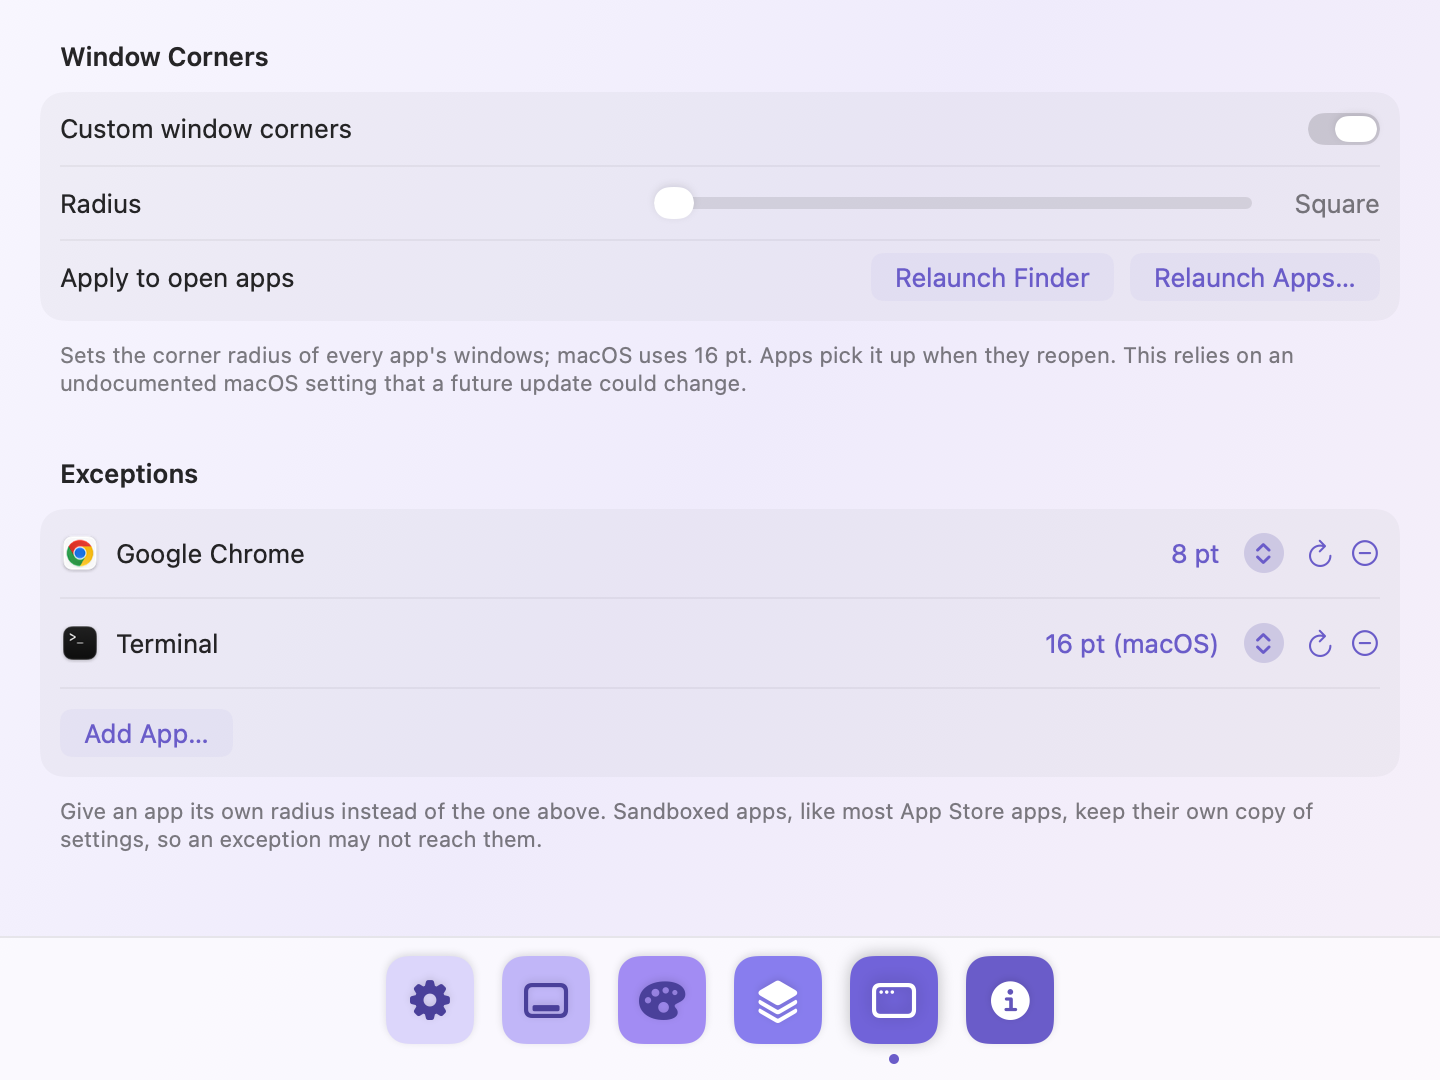
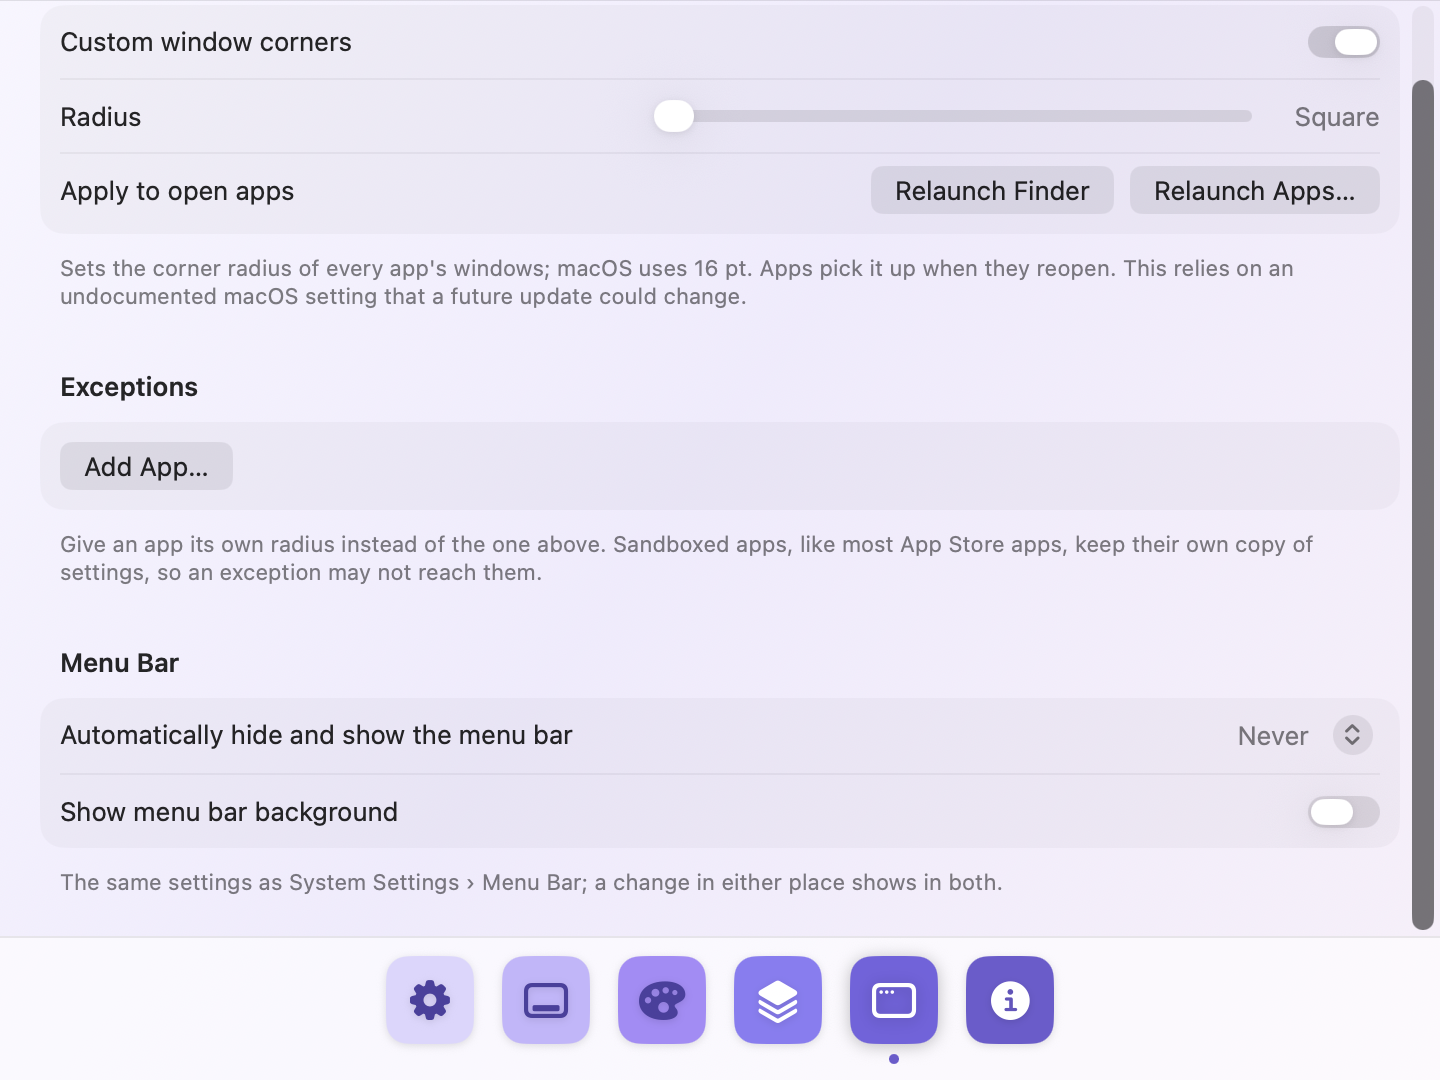
README: show the Menu Bar section in the Windows screenshot

diff --git a/README.md b/README.md
@@ -81,7 +81,7 @@ While you drag, Dock Max steps aside so you can see the Dock's own feedback.
   <img src="docs/images/settings-appearance-dark.png" width="400" alt="Appearance settings in dark mode">
   <img src="docs/images/settings-profiles-dark.png" width="400" alt="Dock profiles in dark mode">
 </p>
-<p align="center"><img src="docs/images/settings-windows.png" width="400" alt="Window corner settings"></p>
+<p align="center"><img src="docs/images/settings-windows.png" width="400" alt="Window corner and menu bar settings"></p>
 
 ## Good to know
 
